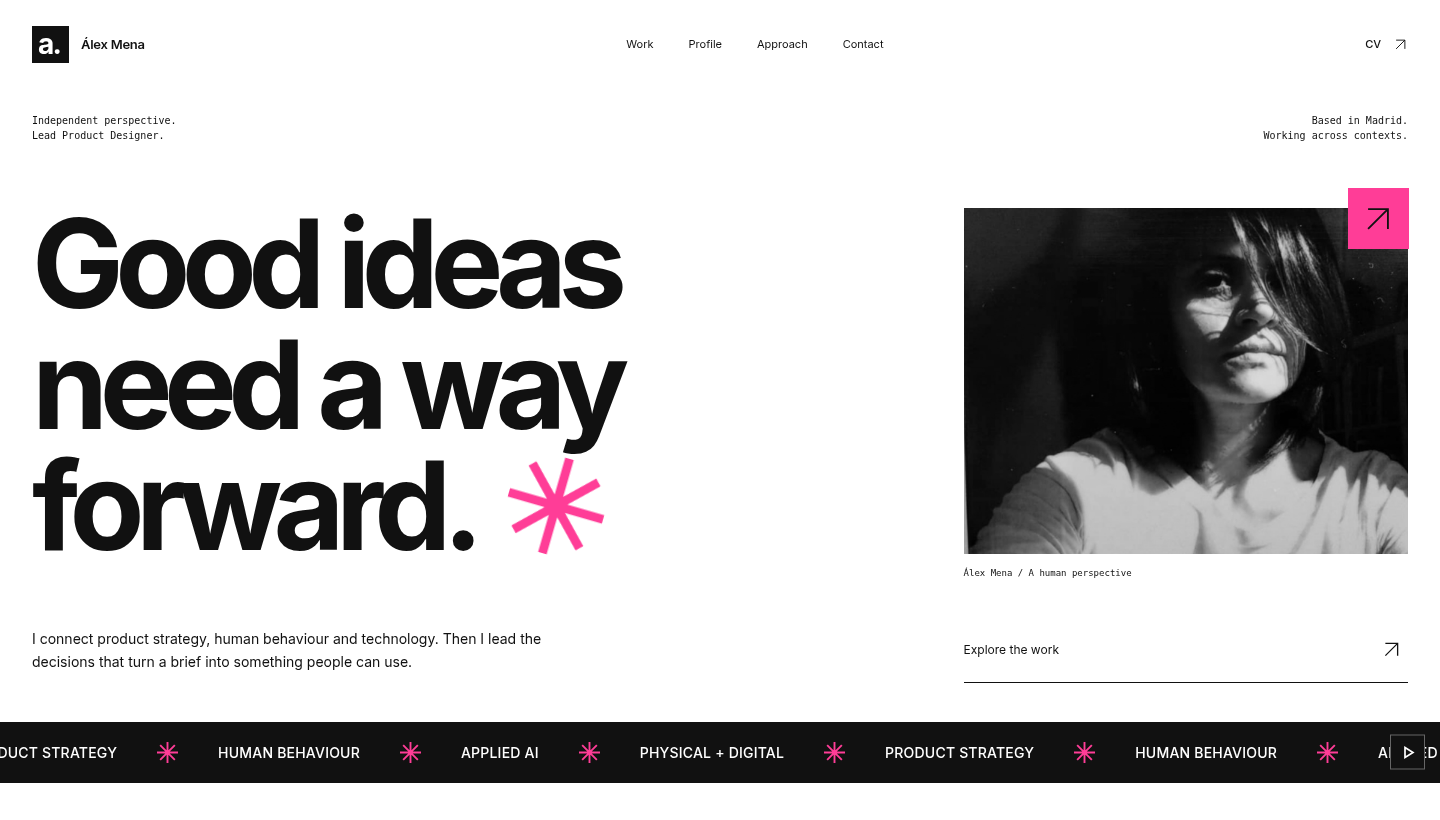
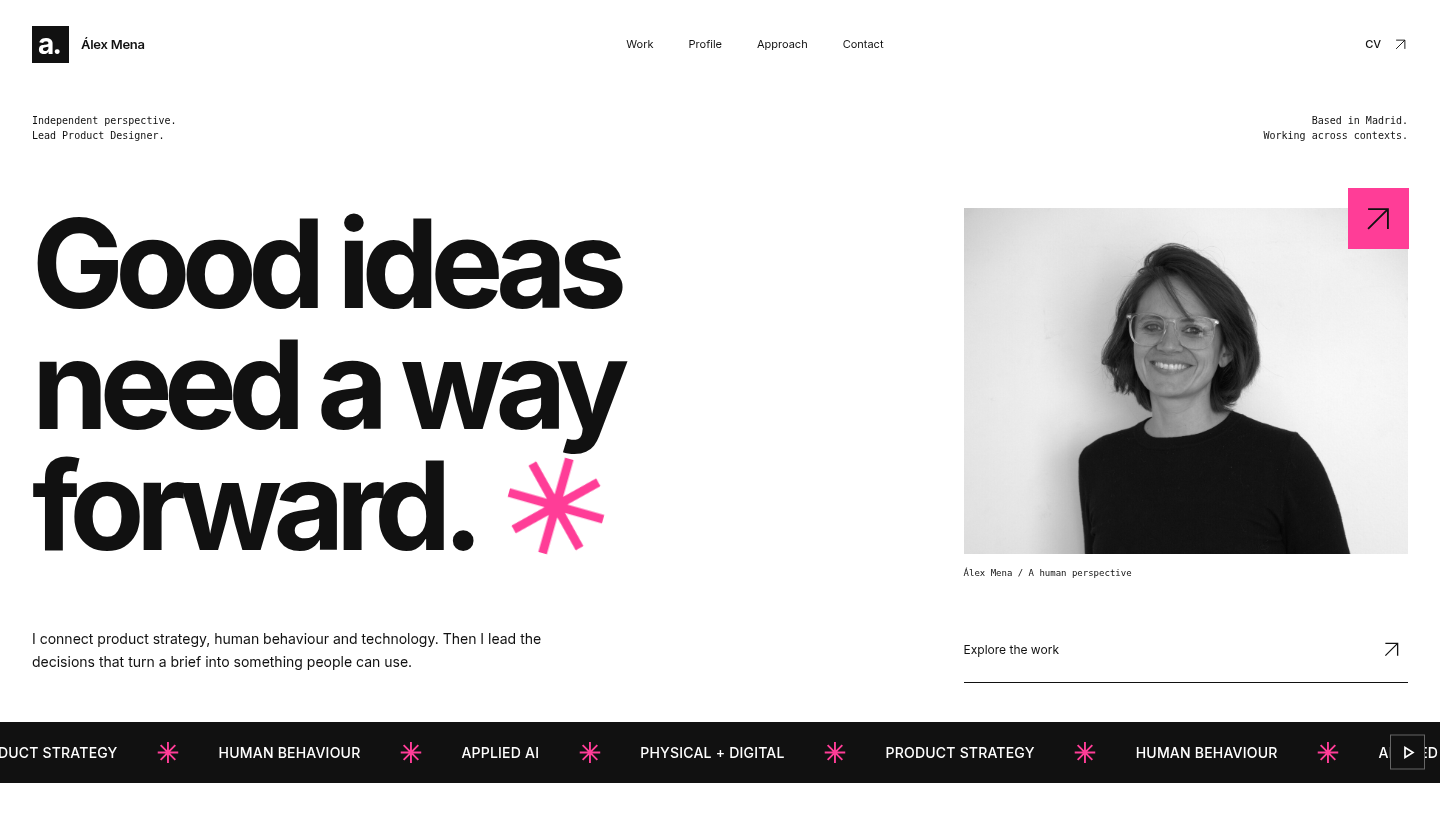
Update portfolio preview with supplied portrait

diff --git a/review/v2/README.md b/review/v2/README.md
@@ -2,6 +2,8 @@
 
 Una base gráfica en blanco y negro, tipografía sans serif con más presencia, retrato personal, cubiertas conceptuales y una composición de proyectos de distinta escala. El contenido y los hechos de los cinco casos se han conservado.
 
+Actualización: la portada y el perfil utilizan la nueva fotografía facilitada por Alexandra. Se ha convertido el RAW a una versión web y ajustado el encuadre para escritorio y móvil. El blanco y negro pertenece al tratamiento visual de la web.
+
 ## Portada
 
 ![Portada — versión 2](inicio-desktop.png)
@@ -22,9 +24,15 @@ La siguiente muestra captura la respuesta de un caso al pasar el cursor: cambia 
 
 ![Presentación — versión 2](presentacion.png)
 
+## Perfil con la nueva fotografía
+
+![Perfil — retrato actualizado](perfil.png)
+
 ## Móvil
 
 ![Portada móvil — versión 2](inicio-mobile.png)
+
+![Perfil móvil — retrato actualizado](perfil-mobile.png)
 
 [Comparar con la primera versión](../README.md)
 
